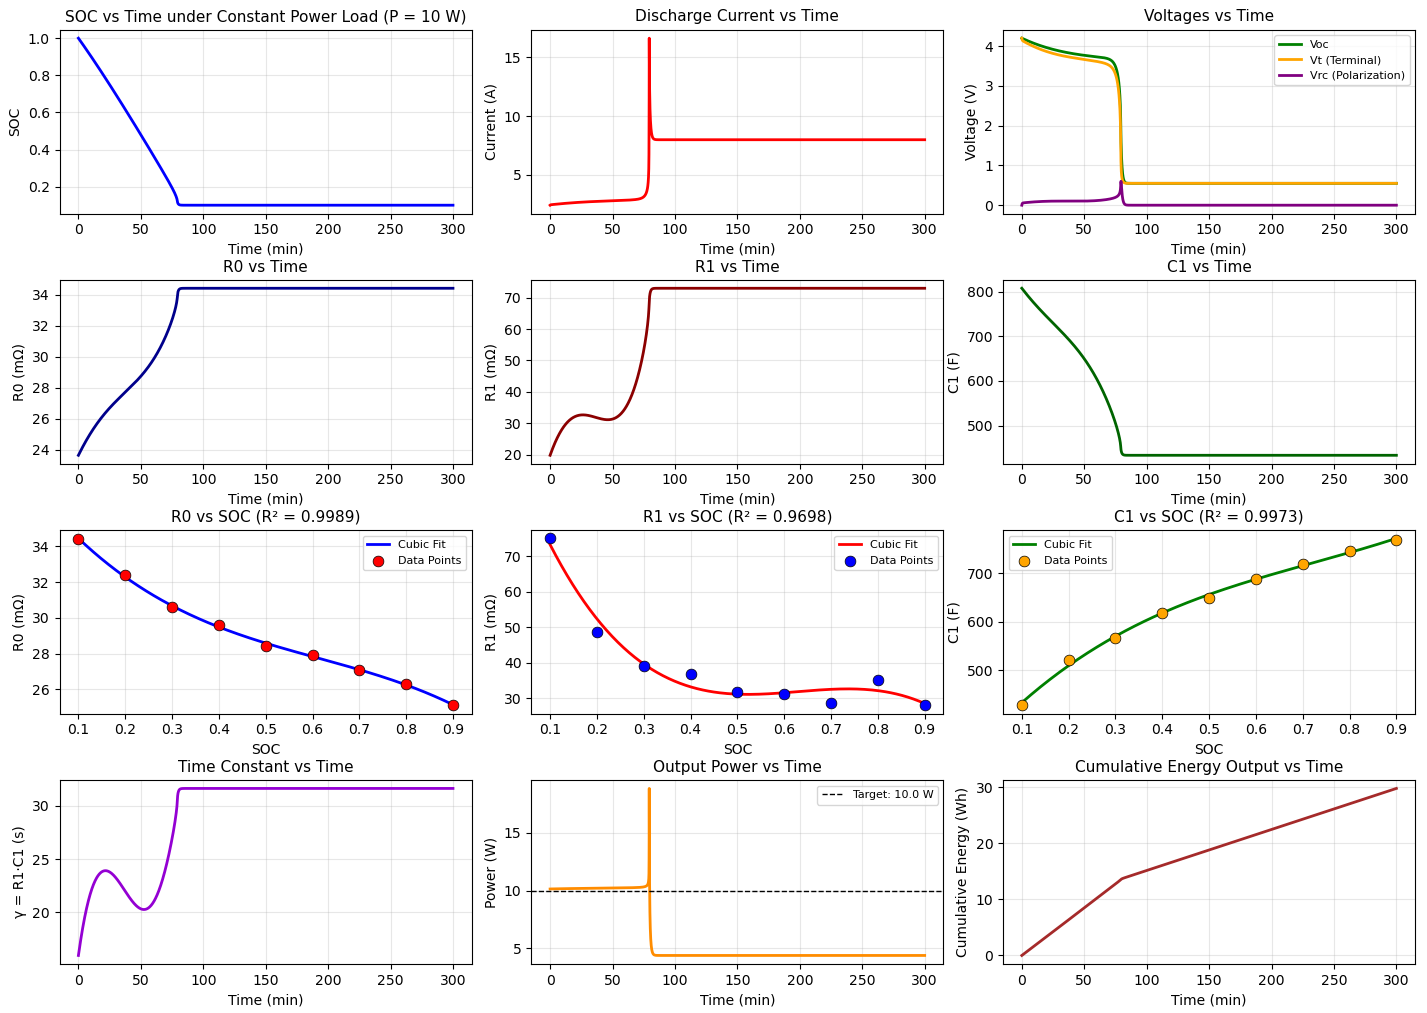
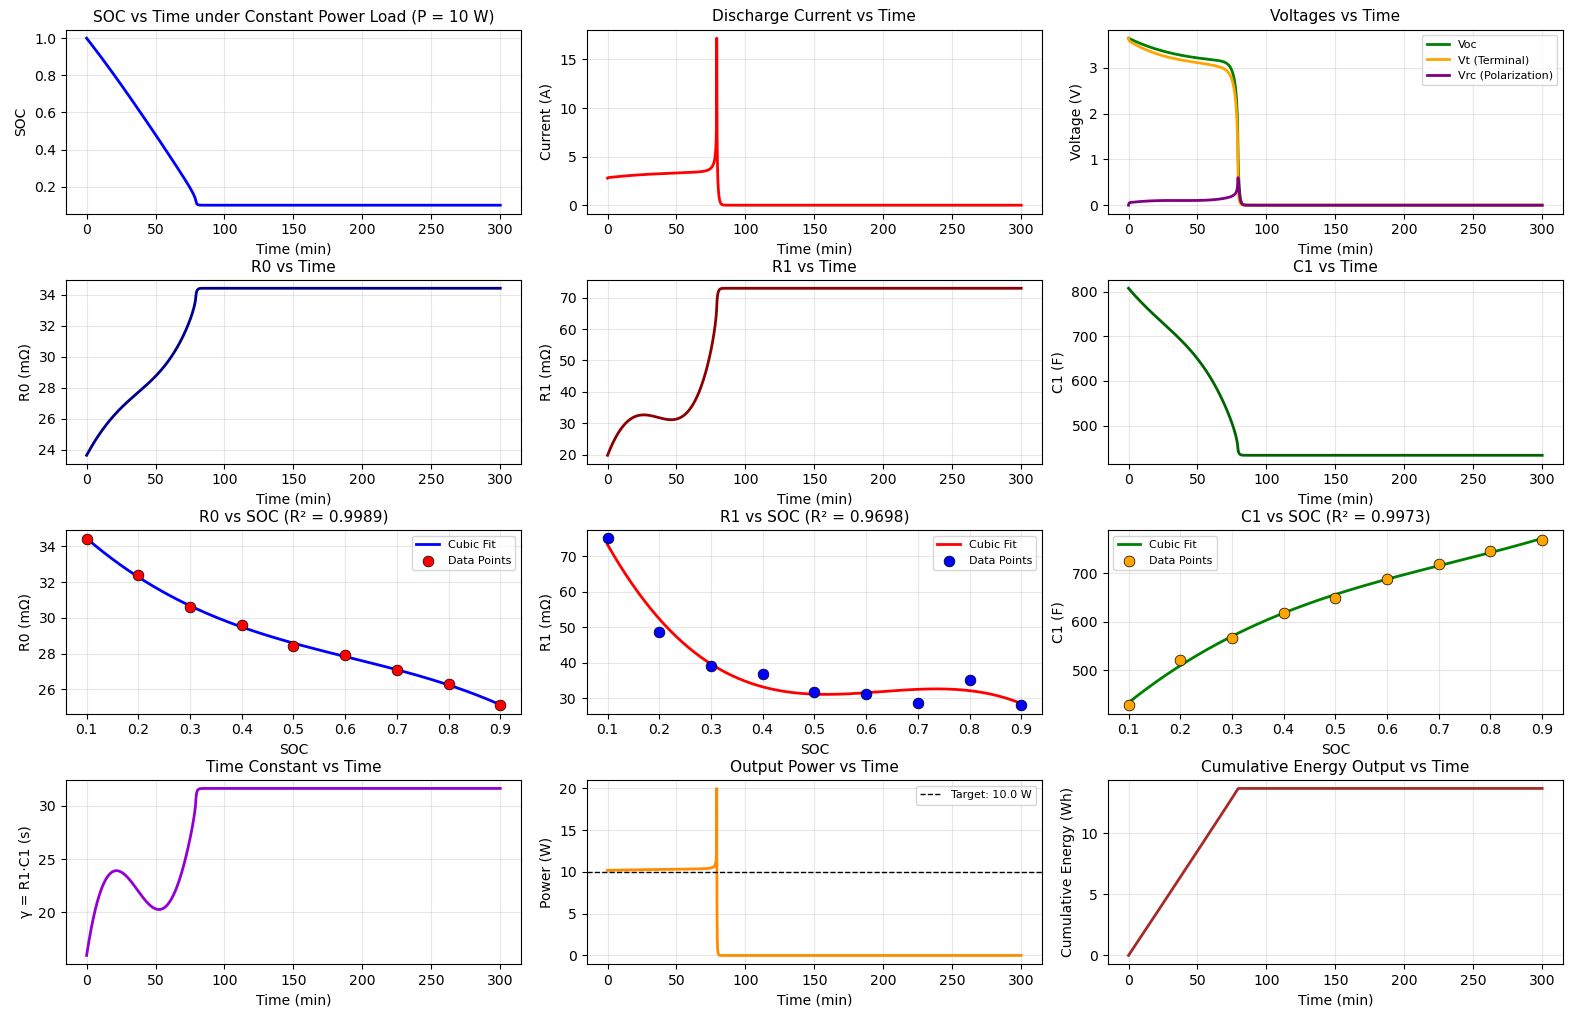
修正了初始端电压为4.2V的谬误

diff --git a/code_zonghe.py b/code_zonghe.py
@@ -174,7 +174,7 @@ for i in range(len(t)):
     Voc_val = (
         p1 * (np.exp(lambda1 * q) - 1)
         + p2 * (np.exp(lambda2 * q) - 1)
-        + 4.2
+        + 3.65
     )
     
     Vt_val = Voc_val - Vrc_val
